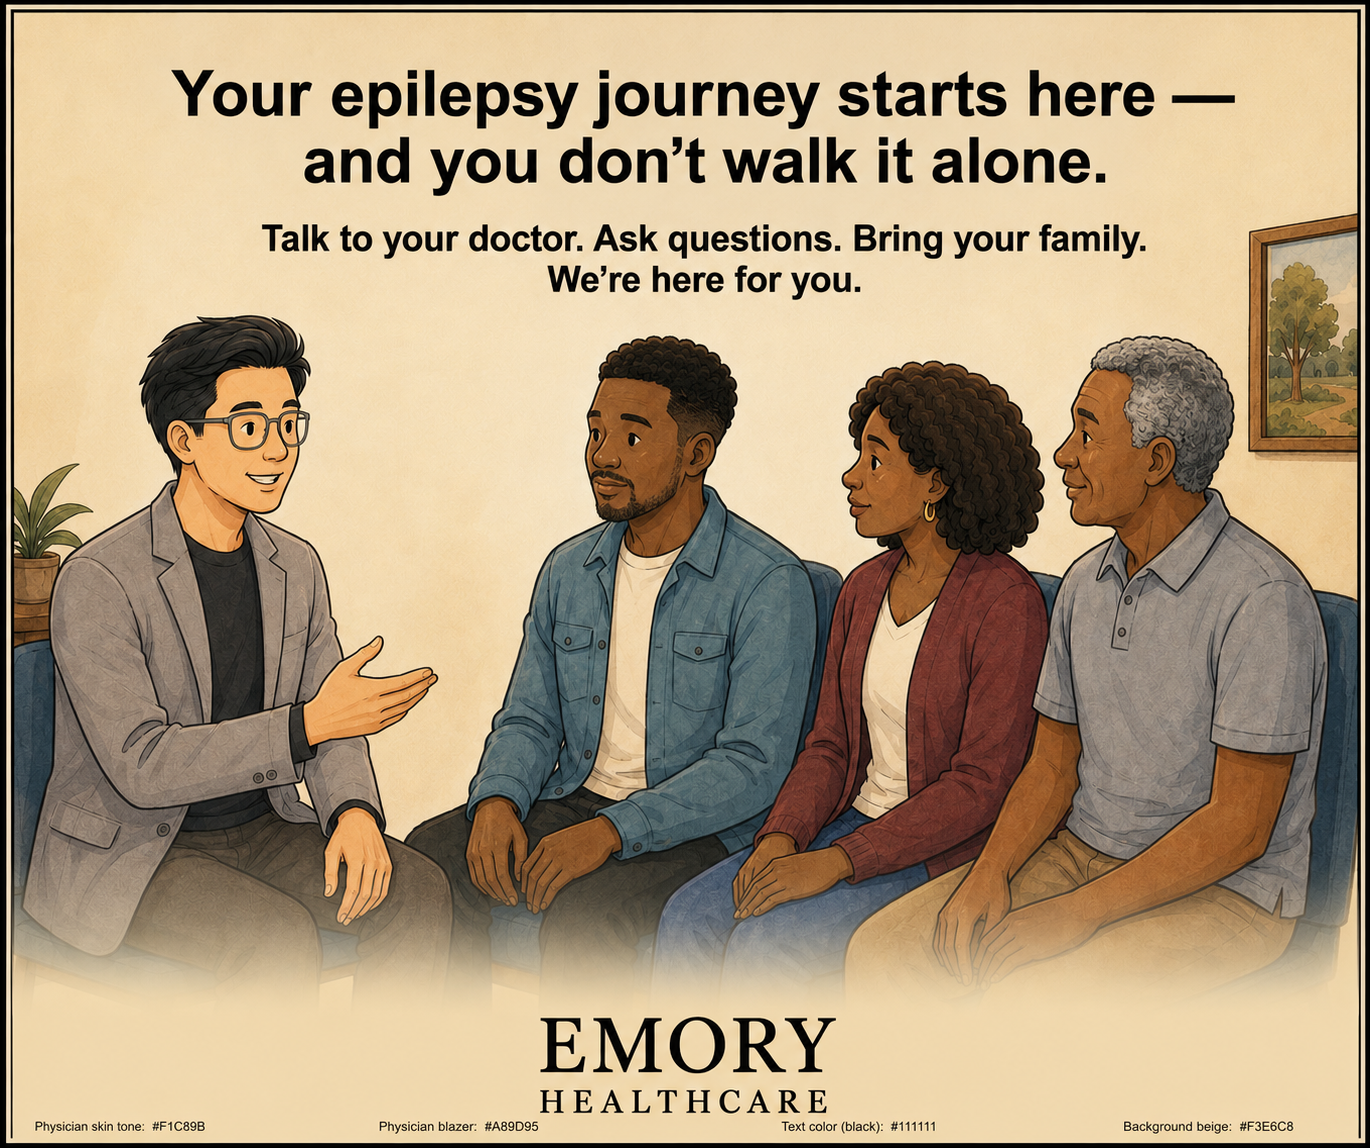
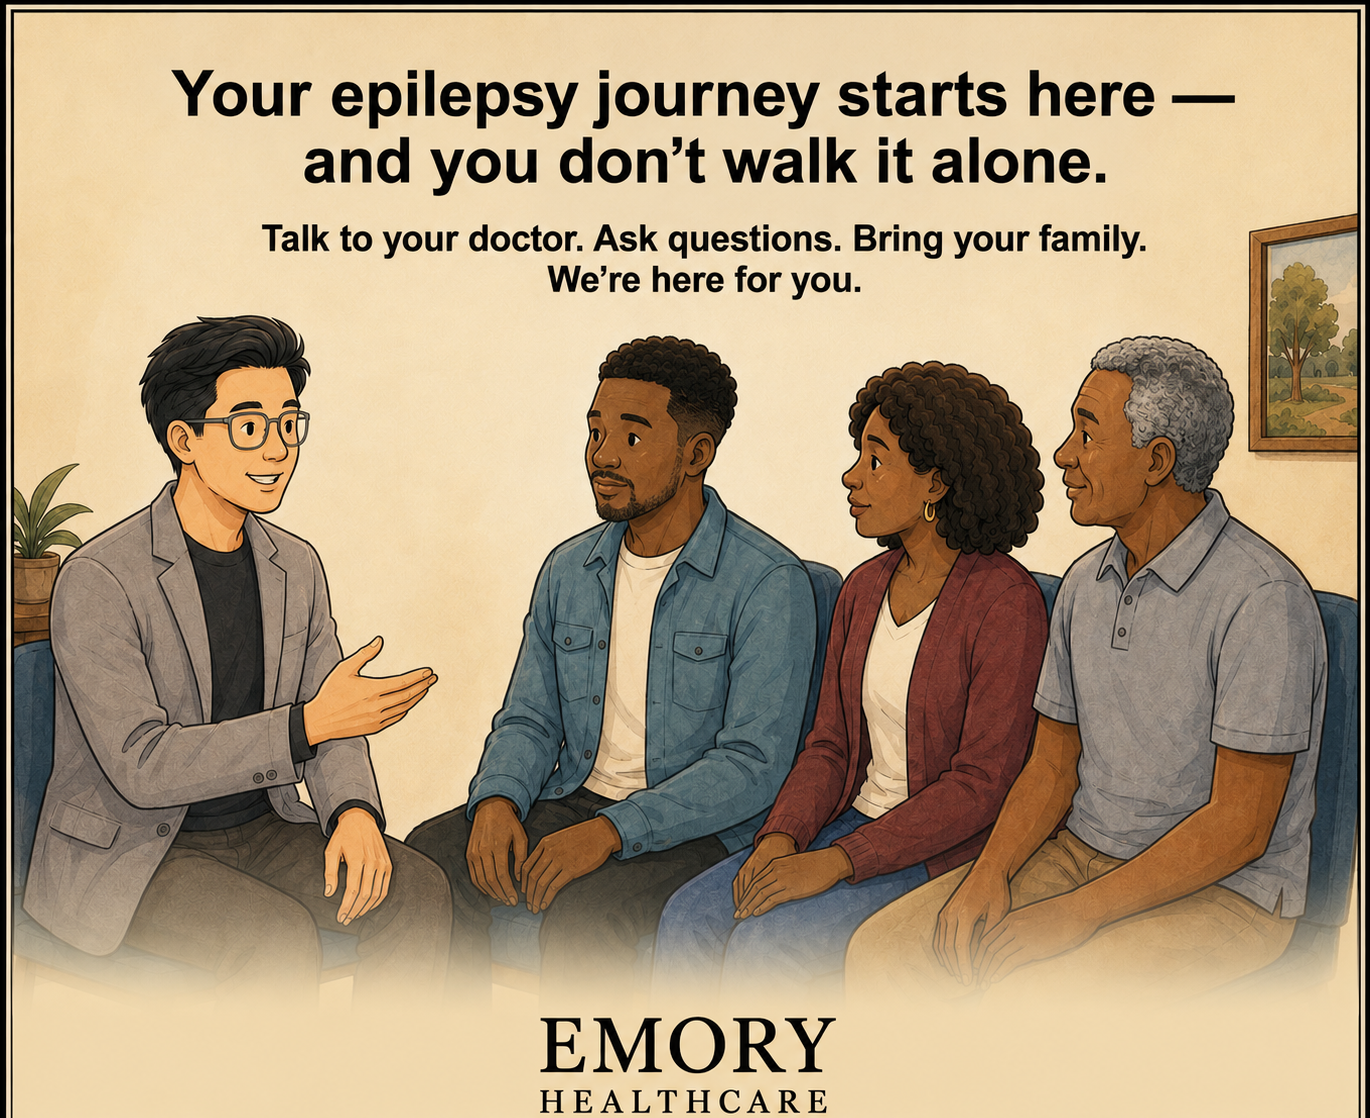
Crop prompt notes from closing panel

diff --git a/first-epilepsy-visit-mobile/prototype/index.html b/first-epilepsy-visit-mobile/prototype/index.html
@@ -1078,7 +1078,7 @@
       </div>
 
       <div class="comic-panel panel--comic-landscape">
-        <img src="../assets/generated/page_08-04-journey-starts.png"
+        <img src="../assets/generated/page_08-04-journey-starts.png?v=crop-prompt-strip-20260520"
              alt="Marcus, his family, and Dr. Rehim face the reader with a closing message about not walking the epilepsy journey alone">
       </div>
     </article>
